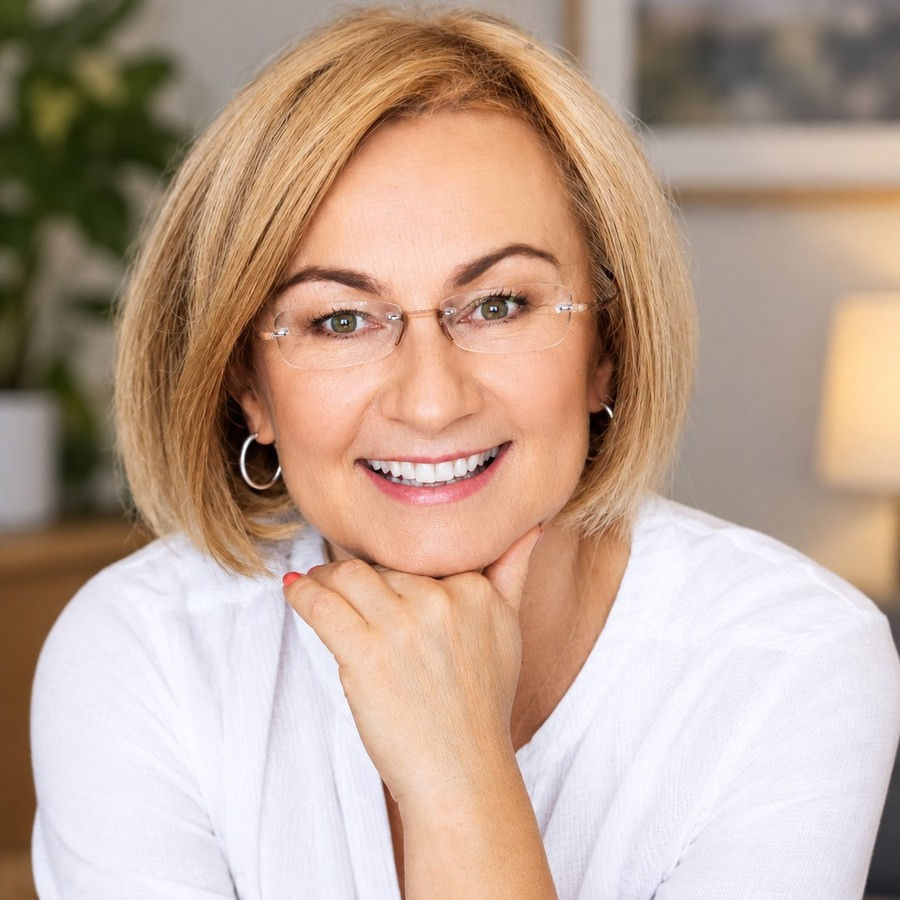
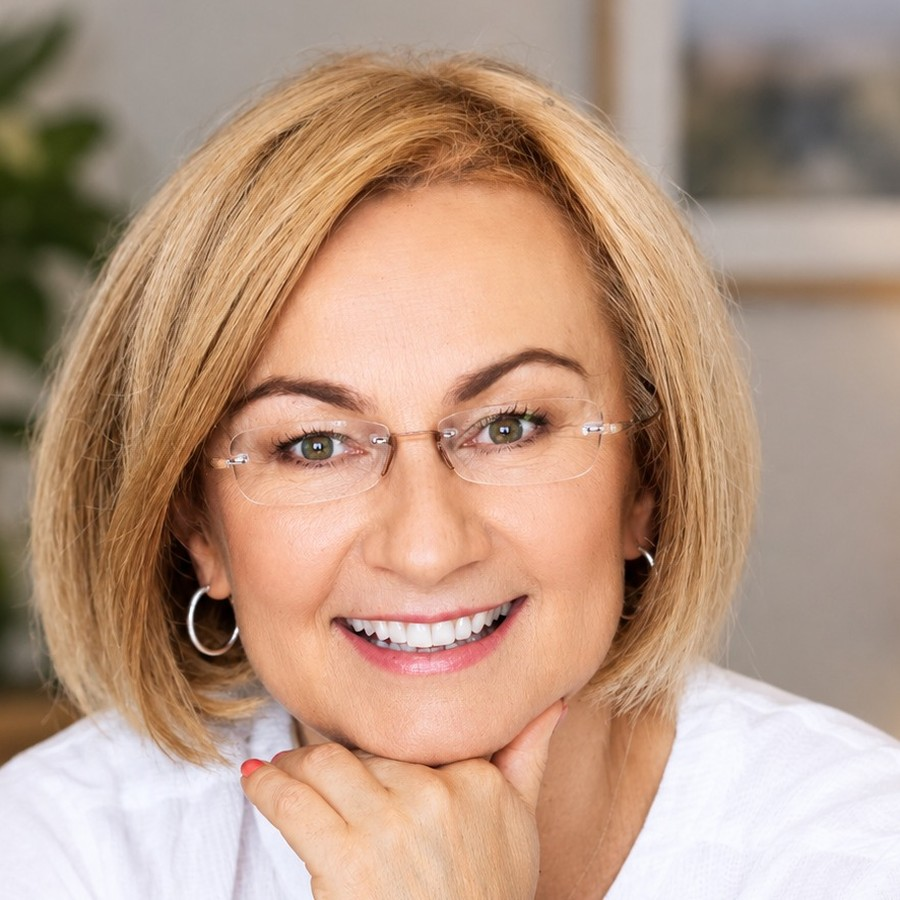
Sawana landing: webhook de GHL conectado y foto que llena el circulo
- El formulario ya manda el telefono al inbound webhook de GHL. Deja de mostrar
  el aviso de "preview" y pasa a mostrar el gracias de verdad.
- La foto de la asesora llenaba el circulo a medias porque .portrait tenia
  padding. El padding se movio al placeholder, que es el unico que lo necesita.
- Recorte mas cerrado de la foto, a cabeza y hombros.

diff --git a/sawana/landing-page/index.html b/sawana/landing-page/index.html
@@ -14,7 +14,7 @@
      ============================================================ -->
 <script>
 window.SAWANA = {
-  GHL_WEBHOOK: "",              // <-- pegar aca la URL del inbound webhook de GHL
+  GHL_WEBHOOK: "https://services.leadconnectorhq.com/hooks/0YwKxn4x6oUQf47lIiQY/webhook-trigger/84b9db80-8bc2-43b1-b3a1-4ed881c7269c",
   THANKS_HEADLINE: "Gotowe. Expose jest w drodze.",
   THANKS_BODY: "PDF przyjdzie SMS-em w ciagu minuty. Zadzwonimy w ciagu 24 godzin, zeby odpowiedziec na pytania."
 };
@@ -149,9 +149,9 @@ tr.total td:last-child{color:var(--gold-soft)}
 .advisor{display:grid;grid-template-columns:260px 1fr;gap:clamp(24px,4vw,52px);align-items:center}
 @media (max-width:760px){.advisor{grid-template-columns:1fr;gap:26px}}
 .portrait{aspect-ratio:1;border-radius:50%;overflow:hidden;background:var(--paper-2);
-  border:1px solid var(--line);display:grid;place-items:center;text-align:center;padding:24px}
+  border:1px solid var(--line);display:grid;place-items:center;text-align:center}
 .portrait img{width:100%;height:100%;object-fit:cover}
-.portrait .ph{font-size:13px;line-height:1.5;color:var(--muted)}
+.portrait .ph{font-size:13px;line-height:1.5;color:var(--muted);padding:24px}
 .advisor blockquote{margin:0;font-family:var(--serif);font-size:clamp(20px,2.7vw,28px);line-height:1.38}
 .advisor .who{margin-top:18px;font-size:15px;color:var(--muted)}
 .advisor .who b{display:block;color:var(--ink);font-family:var(--sans);font-weight:600;font-size:16px}
